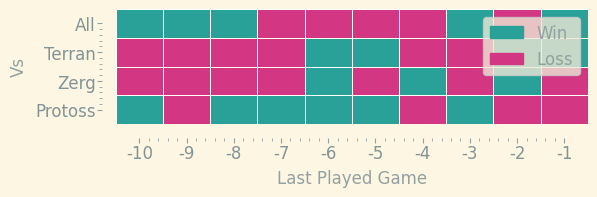
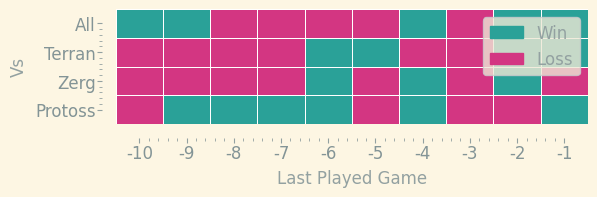
running on push

diff --git a/docs/index.md b/docs/index.md
@@ -18,7 +18,7 @@ layout: home
   <tbody>
     <tr>
       <td>Matches Played</td>
-      <td>1069</td>
+      <td>1070</td>
     </tr>
     <tr>
       <td>MMR Gained</td>
@@ -34,7 +34,7 @@ layout: home
     </tr>
     <tr>
       <td>Min MMR</td>
-      <td>4459</td>
+      <td>4458</td>
     </tr>
     <tr>
       <td>Longest Win Streak</td>
@@ -114,7 +114,7 @@ layout: home
 
 | Race    |   Wins |   Losses |   Total |   Win Rate (%) |   MMR Gained |   MMR Lost |
 |:--------|-------:|---------:|--------:|---------------:|-------------:|-----------:|
-| Protoss |    188 |      237 |     425 |        44.2353 |         3369 |       4036 |
+| Protoss |    188 |      238 |     426 |        44.1315 |         3390 |       4036 |
 | Terran  |    111 |      150 |     261 |        42.5287 |         2879 |       2055 |
 | Zerg    |    223 |      159 |     382 |        58.377  |         3474 |       3465 |
 
